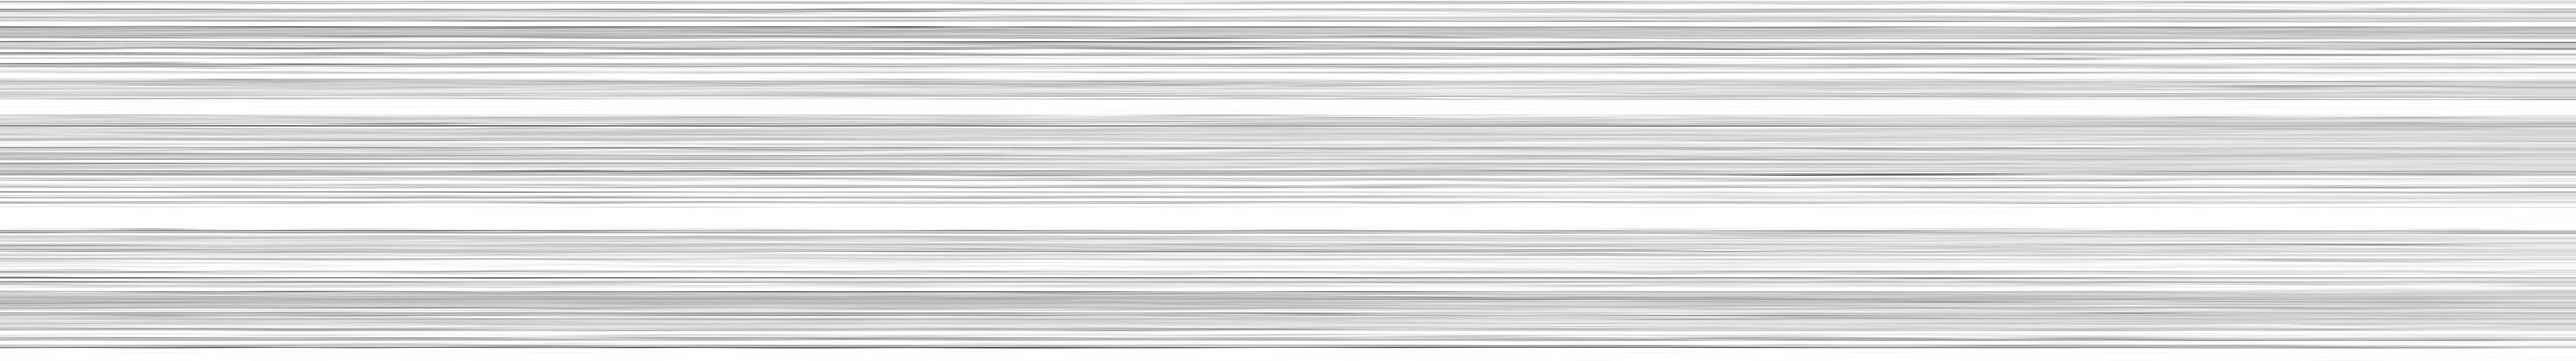
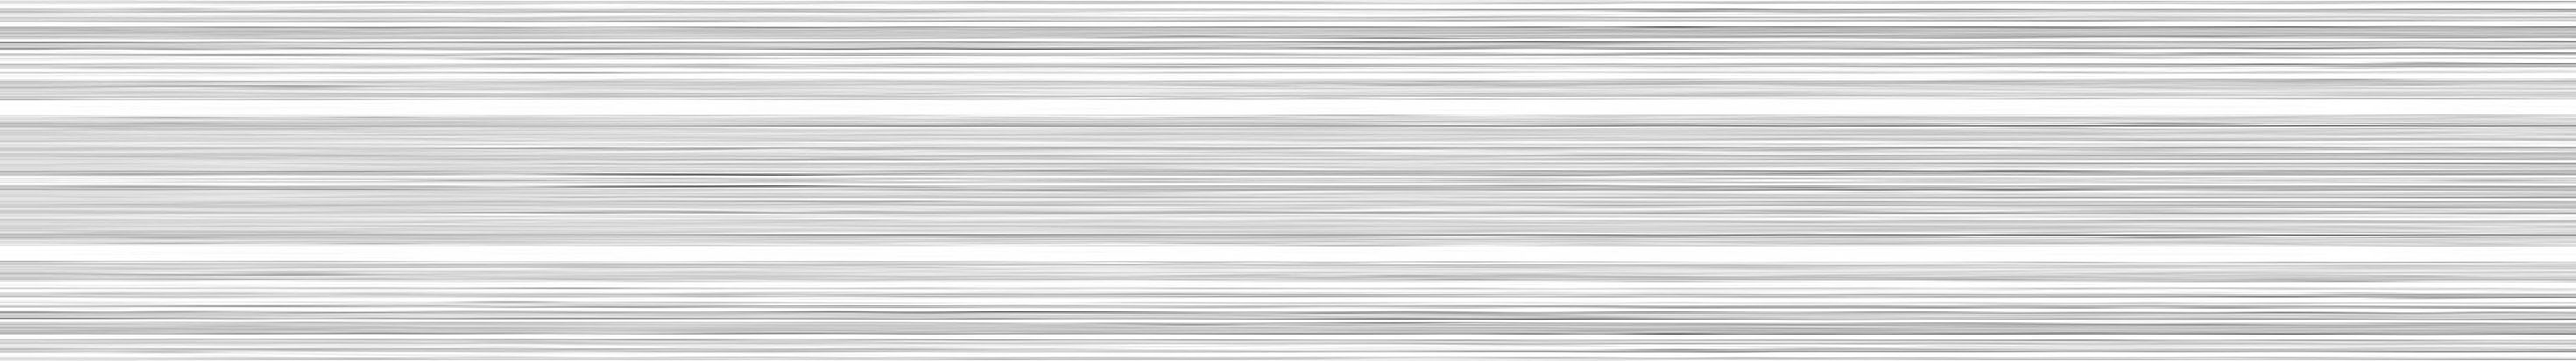
box closed

diff --git a/src/components/Book.vue b/src/components/Book.vue
@@ -12,23 +12,23 @@
           ></div>
           <div  class="box--side-left"
                 :style="{
-                  'width': boxDepth+2 + 'px',
-                  'height': boxHeight + 'px',
+                  'width': boxDepth+1 + 'px',
+                  'height': boxHeight+1 + 'px',
                   'background': 'url(' + spine + ')',
                   'transform': 'translate3d(' + boxWidth * -0.5 + 'px ,' + boxHeight * -0.5 + 'px ,'+boxDepth/2+'px) translate3d(' + boxDepth*-0.5 + 'px, 0, ' + boxDepth*-0.5 + 'px) rotateY(-90deg)'
                   }"
           ></div>
           <div  class="box--side-right"
                 :style="{
-                  'width': boxDepth+2 + 'px',
-                  'height': boxHeight + 'px',
+                  'width': boxDepth+1 + 'px',
+                  'height': boxHeight+1 + 'px',
                   'background': 'url(' + side + ') no-repeat center center',
                   'transform': 'translate3d(' + boxWidth * -0.5 + 'px ,' + boxHeight * -0.5 + 'px ,'+boxDepth/2+'px) translate3d(' + (boxWidth-(boxDepth*0.5)) + 'px, 0px,' + boxDepth*-0.5 + 'px) rotateY(90deg)'
                   }"
           ></div>
           <div  class="box--top"
                 :style="{
-                  'width': boxWidth + 'px',
+                  'width': boxWidth+1 + 'px',
                   'height': boxDepth + 'px',
                   'background': '#00f',
                   'background': 'url(' + top + ') no-repeat center center',
@@ -37,7 +37,7 @@
           ></div>
           <div  class="box--bottom"
                 :style="{
-                  'width': boxWidth + 'px',
+                  'width': boxWidth+1 + 'px',
                   'height': boxDepth + 'px',
                   'background': '#000',
                   'background': 'url(' + top + ') no-repeat center center',
@@ -46,8 +46,8 @@
           ></div>
           <div  class="box--back"
                 :style="{
-                  'width': boxWidth + 'px',
-                  'height': boxHeight + 'px',
+                  'width': boxWidth+1 + 'px',
+                  'height': boxHeight+1 + 'px',
                   'background': 'url(' + back + ')',
                   'transform': 'translate3d(' + boxWidth * -0.5 + 'px ,' + boxHeight * -0.5 + 'px ,'+boxDepth/2+'px) translate3d(0,0, -' + boxDepth + 'px) rotateY(180deg)'
                   }"
@@ -133,7 +133,10 @@ export default {
     left: 0;
     background-size: cover !important;
     background-position: center center;
-    backface-visibility: hidden;
+    backface-visibility: visible;
+  }
+  .box--top, .box--bottom, .box--side-right {
+    background-size: 100%  100% !important;
   }
 }
 
